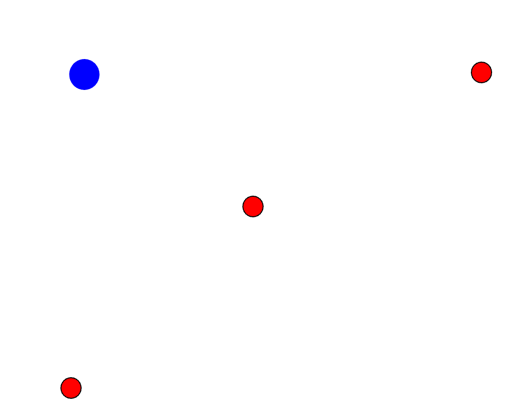
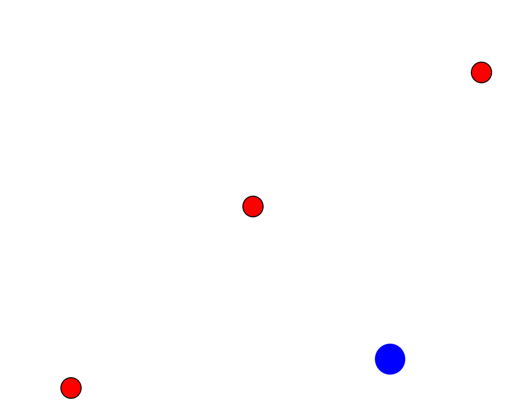
methods: tune PegDodge launch velocity so the game lasts about ten seconds

Changed region(s): [[0.7411, 0.8136, 0.8004, 0.9298], [0.1186, 0.1453, 0.2075, 0.2324]]

diff --git a/docs/html/methods/ccMethods.html b/docs/html/methods/ccMethods.html
@@ -94,8 +94,8 @@ void setup()            // &lt;-- Whatever commands we put in here will be execu
     xPos = 60;
     yPos = 60;
 
-    vx = 2.9;             // &lt;-- The ball launches itself: no click needed
-    vy = 1.5;
+    vx = 2.2;             // &lt;-- The ball launches itself: no click needed
+    vy = 1.2;
 }
 
 void draw()

diff --git a/docs/p5js/pegDodge/pegDodge.js b/docs/p5js/pegDodge/pegDodge.js
@@ -26,8 +26,8 @@ function setup() {
   xPos = 60;
   yPos = 60;
 
-  vx = 2.9; // The ball launches itself: no click needed
-  vy = 1.5;
+  vx = 2.2; // The ball launches itself: no click needed
+  vy = 1.2;
 }
 
 function draw() {
